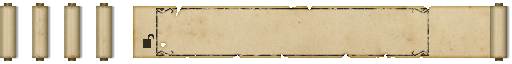
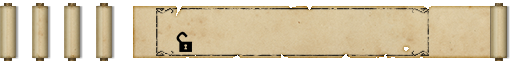
MOD Achievement in game display

Changed region(s): [[0.2812, 0.5, 0.375, 0.8125], [0.7812, 0.6875, 0.8125, 0.8125]]

diff --git a/src/WitchBlastGame.cpp b/src/WitchBlastGame.cpp
@@ -1695,12 +1695,12 @@ void WitchBlastGame::renderHud()
       if (achievements[achievementsQueue.front().type].unlockType == UnlockItem)
       {
         game().write(tools::getLabel(items[achievements[achievementsQueue.front().type].unlock].name),
-                     13, xPos + 32, yPos + 32, ALIGN_LEFT, sf::Color::Black, app, 0, 0);
+                     13, xPos + 70, yPos + 34, ALIGN_LEFT, sf::Color::Black, app, 0, 0);
       }
       else if (achievements[achievementsQueue.front().type].unlockType == UnlockFunctionality)
       {
         game().write(tools::getLabel(functionalityLabel[achievements[achievementsQueue.front().type].unlock]),
-                     13, xPos + 32, yPos + 32, ALIGN_LEFT, sf::Color::Black, app, 0, 0);
+                     13, xPos + 70, yPos + 34, ALIGN_LEFT, sf::Color::Black, app, 0, 0);
       }
     }
 
